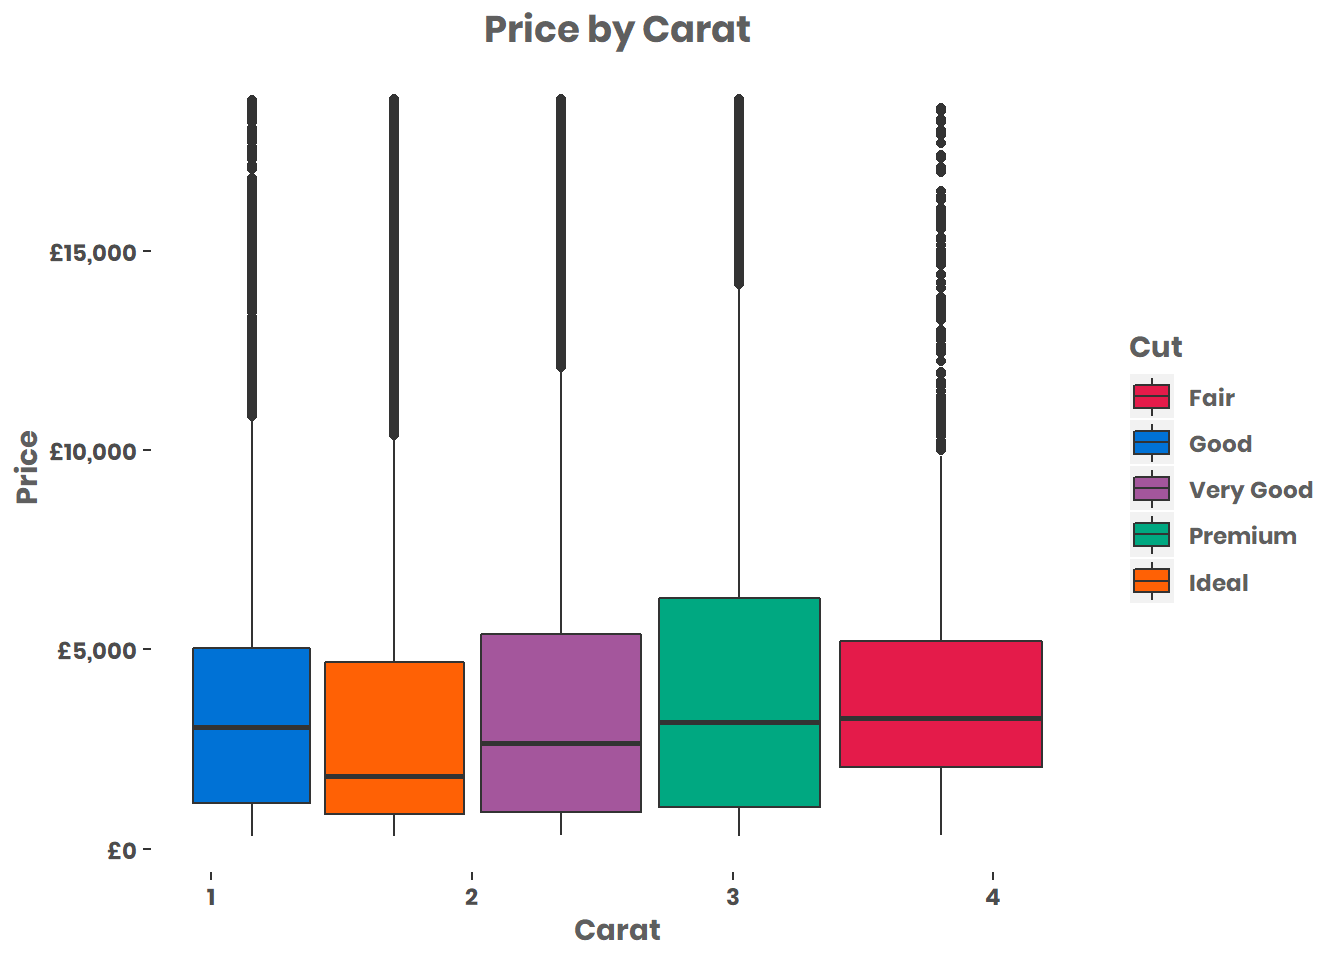
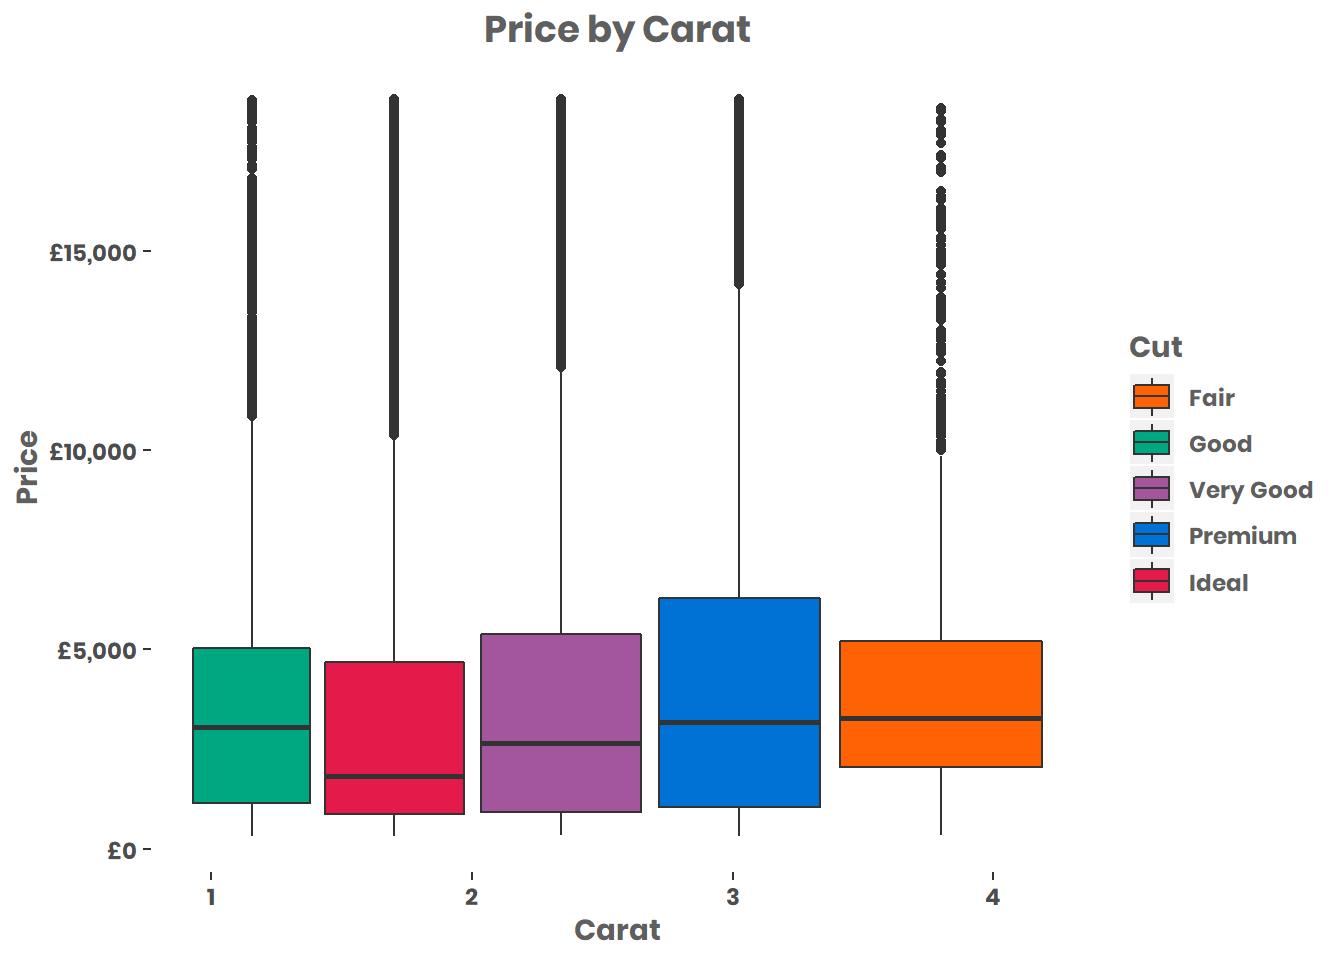
colour change

diff --git a/Cookbook.html b/Cookbook.html
@@ -519,7 +519,7 @@ plot.box &lt;-<span class="st"> </span><span class="kw">ggplot</span>(<span clas
   <span class="dt">plot.title=</span><span class="kw">element_text</span>(<span class="dt">size=</span><span class="dv">14</span>,<span class="dt">family =</span> <span class="st">&quot;Poppins&quot;</span>, <span class="dt">face=</span><span class="st">&quot;bold&quot;</span>, <span class="dt">hjust =</span> <span class="fl">0.5</span>),
   <span class="dt">panel.background  =</span>  <span class="kw">element_blank</span>()) <span class="op">+</span>
 <span class="st">  </span><span class="kw">labs</span>( <span class="dt">x=</span> <span class="st">&quot;Carat&quot;</span>, <span class="dt">y =</span> <span class="st">&quot;Price&quot;</span>, <span class="dt">title =</span> <span class="st">&quot;Price by Carat&quot;</span>, <span class="dt">fill =</span> <span class="st">&quot;Cut&quot;</span>) <span class="op">+</span>
-<span class="st">  </span><span class="kw">scale_fill_manual</span>(<span class="dt">values=</span>se_colour) <span class="op">+</span>
+<span class="st">  </span><span class="kw">scale_fill_manual</span>(<span class="dt">values=</span>se_colour_inverse) <span class="op">+</span>
 <span class="st">  </span><span class="kw">scale_y_continuous</span>(<span class="dt">labels =</span> scales<span class="op">::</span><span class="kw">dollar_format</span>(<span class="dt">prefix =</span> <span class="st">&quot;£&quot;</span>)) <span class="co"># reformat scales to currency</span>
 plot.box</code></pre></div>
 <p><img src="Cookbook_files/figure-html/Boxplot-1.png" width="672" style="display: block; margin: auto;" /></p>
@@ -551,7 +551,7 @@ plot.bar &lt;-<span class="st"> </span><span class="kw">ggplot</span>(<span clas
         <span class="dt">panel.background  =</span>  <span class="kw">element_blank</span>(),
   <span class="dt">legend.position =</span> <span class="st">&quot;none&quot;</span>) <span class="op">+</span><span class="st"> </span><span class="co"># remove legend</span>
 <span class="st">  </span><span class="kw">labs</span>( <span class="dt">x=</span> <span class="st">&quot;Cut&quot;</span>,  <span class="dt">y =</span> <span class="st">&quot;Value of Diamonds&quot;</span>,  <span class="dt">title =</span> <span class="st">&quot;Value of Diamonds by Cut&quot;</span>) <span class="op">+</span>
-<span class="st">  </span><span class="kw">scale_fill_manual</span>(<span class="dt">values=</span>se_colour) <span class="op">+</span>
+<span class="st">  </span><span class="kw">scale_fill_manual</span>(<span class="dt">values=</span>se_colour_inverse) <span class="op">+</span>
 <span class="st">  </span><span class="kw">scale_y_continuous</span>(<span class="dt">labels =</span> scales<span class="op">::</span><span class="kw">dollar_format</span>(<span class="dt">prefix =</span> <span class="st">&quot;£&quot;</span>))
 plot.bar</code></pre></div>
 <p><img src="Cookbook_files/figure-html/bar-1.png" width="672" style="display: block; margin: auto;" /></p>
@@ -575,7 +575,7 @@ d &lt;-<span class="st"> </span><span class="kw">round</span>(d)
 <span class="st">  </span><span class="kw">theme</span>(<span class="dt">text =</span> <span class="kw">element_text</span>(<span class="dt">family =</span> <span class="st">&quot;Poppins&quot;</span>, <span class="dt">size =</span> <span class="dv">14</span>, <span class="dt">colour =</span> <span class="st">&quot;#5F5F5F&quot;</span>),
         <span class="dt">plot.title=</span><span class="kw">element_text</span>(<span class="dt">size=</span><span class="dv">14</span>,<span class="dt">family =</span> <span class="st">&quot;Poppins&quot;</span>, <span class="dt">face=</span><span class="st">&quot;bold&quot;</span>, <span class="dt">hjust =</span> <span class="fl">0.5</span>), 
         <span class="dt">panel.background  =</span>  <span class="kw">element_blank</span>() )<span class="op">+</span>
-<span class="st">  </span><span class="kw">scale_colour_manual</span>(<span class="dt">values =</span> se_colour, <span class="dt">name =</span> <span class="st">&quot;Cut&quot;</span>, <span class="dt">labels =</span> <span class="kw">c</span>(<span class="st">&quot;Fair&quot;</span>, <span class="st">&quot;Good&quot;</span>, <span class="st">&quot;Very Good&quot;</span>, <span class="st">&quot;Premium&quot;</span>, <span class="st">&quot;Ideal&quot;</span>)) <span class="op">+</span>
+<span class="st">  </span><span class="kw">scale_colour_manual</span>(<span class="dt">values =</span> se_colour_inverse, <span class="dt">name =</span> <span class="st">&quot;Cut&quot;</span>, <span class="dt">labels =</span> <span class="kw">c</span>(<span class="st">&quot;Fair&quot;</span>, <span class="st">&quot;Good&quot;</span>, <span class="st">&quot;Very Good&quot;</span>, <span class="st">&quot;Premium&quot;</span>, <span class="st">&quot;Ideal&quot;</span>)) <span class="op">+</span>
 <span class="st">  </span><span class="kw">labs</span>( <span class="dt">caption =</span>  <span class="st">&quot;Diamonds by cut&quot;</span>)</code></pre></div>
 <p><img src="Cookbook_files/figure-html/waffle-1.png" width="672" style="display: block; margin: auto;" /></p>
 </div>

diff --git a/Hex.html b/Hex.html
@@ -541,14 +541,15 @@ LAD_shp_data_tidy &lt;-<span class="st"> </span>LAD_shp_data_tidy[<span class="k
 <h1>Plot a choropleth map</h1>
 <p>This will let us check the spatial data is correct and everything has worked.</p>
 <div class="sourceCode"><pre class="sourceCode r"><code class="sourceCode r"><span class="co"># plot the map</span>
-(plot_<span class="dv">1</span> &lt;-<span class="st"> </span><span class="kw">ggplot</span>(LAD_shp_data_tidy, <span class="kw">aes</span>(long.x,
+plot_<span class="dv">1</span> &lt;-<span class="st"> </span><span class="kw">ggplot</span>(LAD_shp_data_tidy, <span class="kw">aes</span>(long.x,
                                          lat.x,
                                          <span class="dt">fill=</span>Male.Active,
                                          <span class="dt">group=</span>group)) <span class="op">+</span>
 <span class="st">    </span><span class="kw">geom_polygon</span>(<span class="dt">col=</span><span class="st">&quot;white&quot;</span>) <span class="op">+</span>
 <span class="st">    </span><span class="kw">scale_fill_viridis</span>(<span class="dt">option=</span><span class="st">&quot;magma&quot;</span>, <span class="dt">name =</span> <span class="st">&quot;Male Active&quot;</span>,<span class="dt">breaks =</span> <span class="fl">0.1</span><span class="op">*</span><span class="dv">0</span><span class="op">:</span><span class="dv">9</span>, <span class="dt">labels =</span> <span class="kw">percent</span>(<span class="fl">0.1</span><span class="op">*</span><span class="dv">0</span><span class="op">:</span><span class="dv">9</span>)) <span class="op">+</span>
-<span class="st">    </span><span class="kw">coord_equal</span>() <span class="op">+</span><span class="st"> </span><span class="kw">theme_void</span>())<span class="op">+</span>
-<span class="st">  </span><span class="kw">theme</span>(<span class="dt">text =</span> <span class="kw">element_text</span>(<span class="dt">family =</span> <span class="st">&quot;Poppins&quot;</span>))</code></pre></div>
+<span class="st">    </span><span class="kw">coord_equal</span>() <span class="op">+</span><span class="st"> </span><span class="kw">theme_void</span>()<span class="op">+</span>
+<span class="st">  </span><span class="kw">theme</span>(<span class="dt">text =</span> <span class="kw">element_text</span>(<span class="dt">family =</span> <span class="st">&quot;Poppins&quot;</span>))
+plot_<span class="dv">1</span></code></pre></div>
 <p><img src="Hex_files/figure-html/c_map-1.png" width="672" style="display: block; margin: auto;" /></p>
 </div>
 <div id="generate-new-grid" class="section level1">
